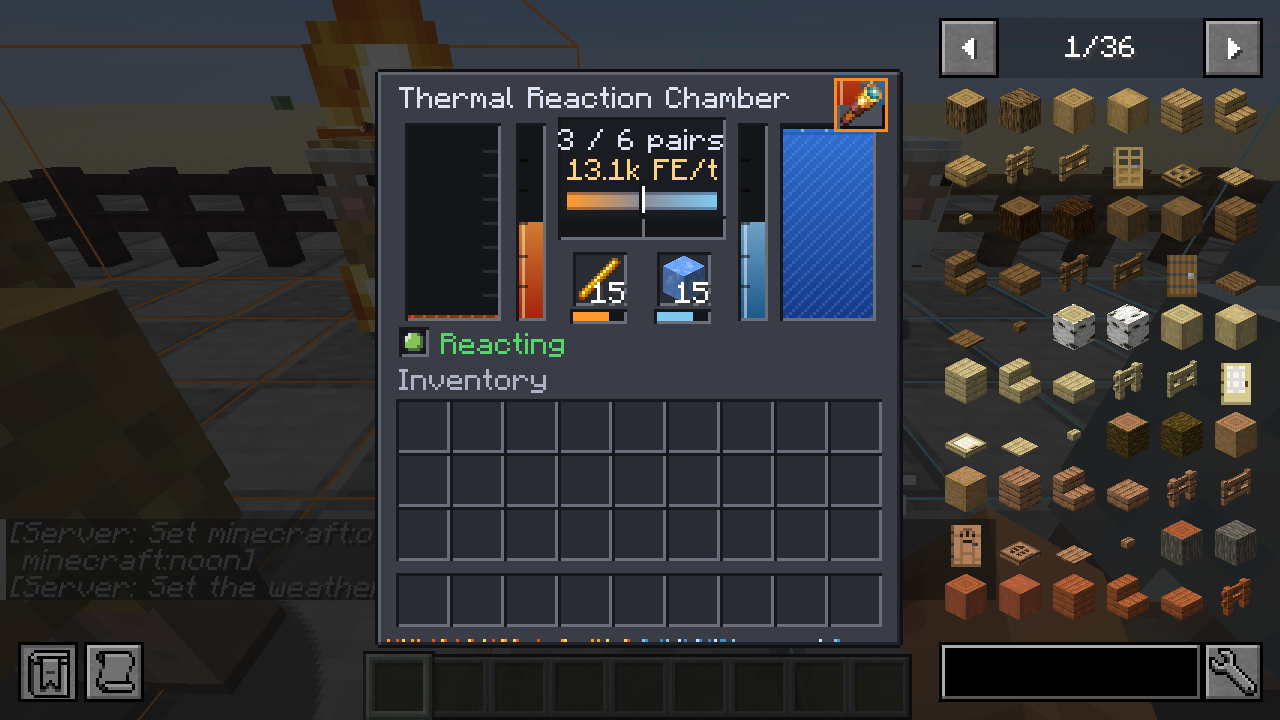
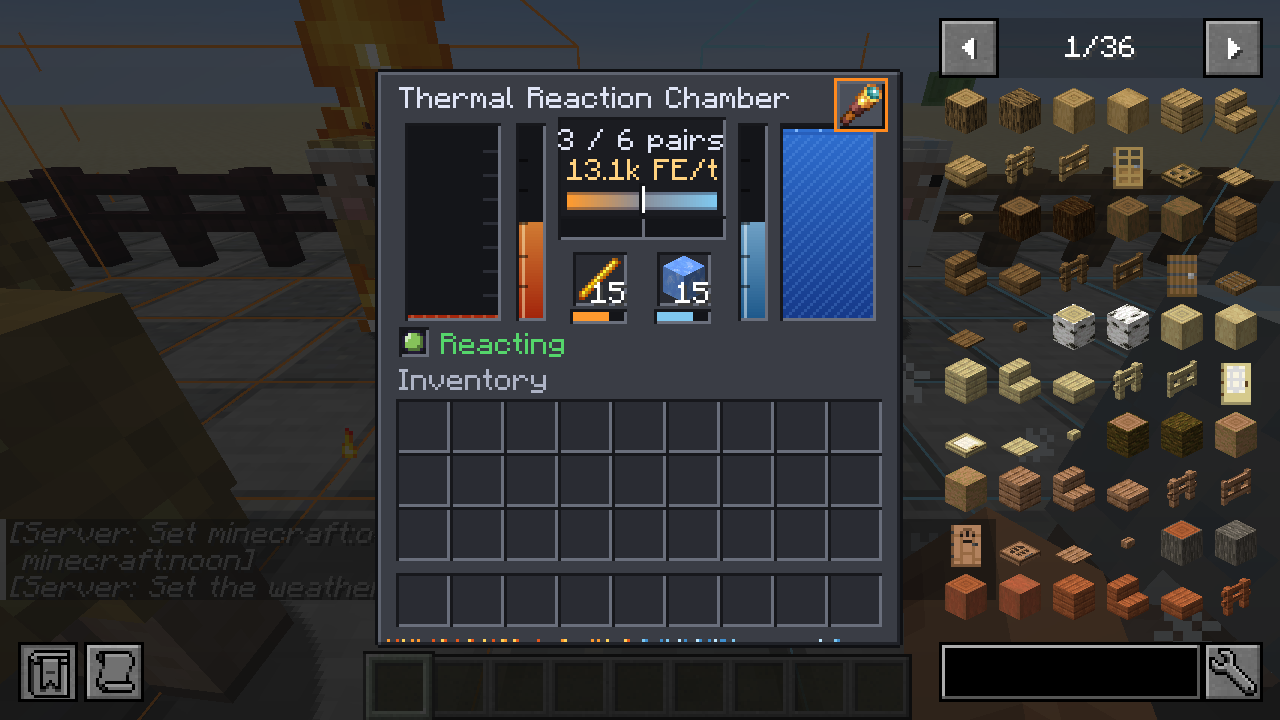
Thermal Reaction Chamber: fix the stray strips on its pen button
The button's background sprite shared space in the window texture with the
thermometer fills, which were drawn over its top-left corner, so the button showed
red and blue strips. It now sits below them (v=162), and the docs' window
screenshots are retaken.

Claude-Session: https://claude.ai/code/session_012iurxobutw9xMP3SqHHLFE

diff --git a/src/main/java/com/jax3/barelyfunctionalcontraptions/sheep/client/ThermalReactionChamberScreen.java b/src/main/java/com/jax3/barelyfunctionalcontraptions/sheep/client/ThermalReactionChamberScreen.java
@@ -36,7 +36,7 @@ public class ThermalReactionChamberScreen extends AbstractContainerScreen<Therma
     private static final int TEXT_COLOR = 0xFFDFE4F5, TEXT_DIM = 0xFFAEB4C6, HOT_TEXT = 0xFFFFB46A, COLD_TEXT = 0xFFBFE8FF,
             ENERGY_TEXT = 0xFFFFD27F, WATER_TEXT = 0xFF7FB8FF;
     private static final int LAMP_X = 9, LAMP_Y = 87, LAMP_U = 186, LAMP_V = 194;
-    private static final int AREA_X = 154, AREA_Y = 4, BUTTON_SIZE = 16, BUTTON_U = 176, BUTTON_V = 146;
+    private static final int AREA_X = 154, AREA_Y = 4, BUTTON_SIZE = 16, BUTTON_U = 176, BUTTON_V = 162;
 
     public ThermalReactionChamberScreen(ThermalReactionChamberMenu menu, Inventory inventory, Component title) {
         super(menu, inventory, title, 176, 193);

diff --git a/tools/sheep/generate_textures.py b/tools/sheep/generate_textures.py
@@ -4148,7 +4148,7 @@ def generate_thermal_reaction_chamber_gui():
             img.putpixel((x, 190), rnd.choice(FIRE[2:5] if x < 88 else ICE[2:5]))
     # ---- sprites ----
     img.paste(sep.crop((186, 194, 256, 202)), (186, 194))           # status lamps
-    img.paste(shears.crop((176, 64, 208, 80)), (176, 146))          # area button background
+    img.paste(shears.crop((176, 64, 208, 80)), (176, 162))          # area button background (below the thermometer fills)
     for u, top, bottom, shine in ((176, FIRE[4], FIRE[1], FIRE[5]), (206, hexc("#2f6fd0"), hexc("#163a8a"), hexc("#7fb8ff"))):
         for y in range(64):                                         # energy (amber) and water (blue) fills
             for x in range(30):
